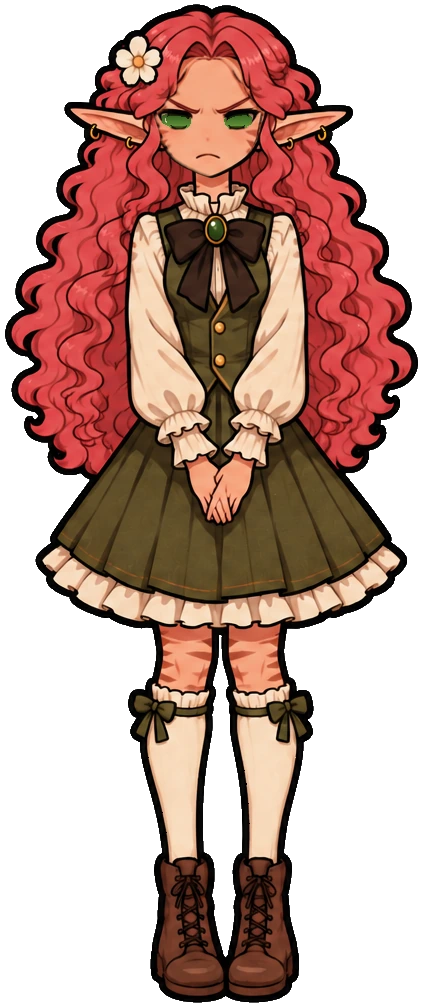
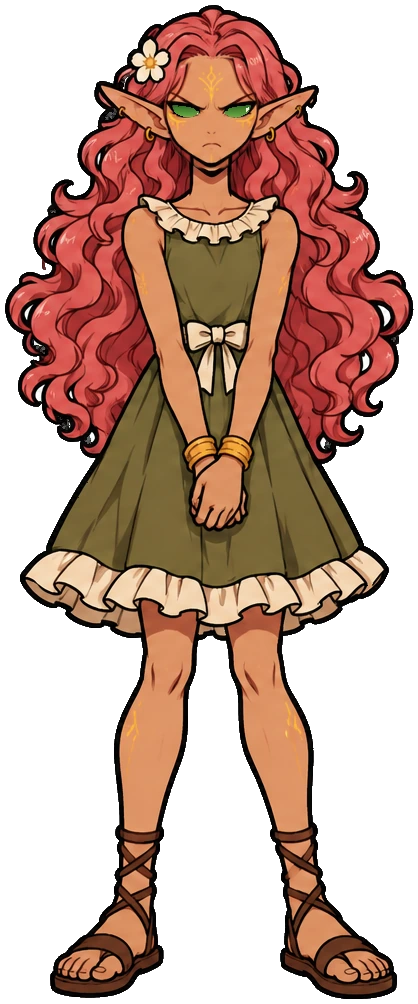
Momo refeita: marcas douradas da família Utagawa, olhos inteiros verdes (versao 3)
Claude-Session: https://claude.ai/code/session_01UAy89vbUTZugM6nZ8sJaNe

diff --git a/CLAUDE.md b/CLAUDE.md
@@ -128,6 +128,6 @@ Cada ator da aba Atriz (`palco-animacao.html`) pode ter sentimentos: a personage
 - Palco: o texto é dividido em frases; `[surpresa]` ou `(surpresa)` no começo vale até o fim da frase, depois volta ao normal; `Tamaki: …` no começo da linha faz só esse ator falar (`FALA.quem`). Sem tag, o sentimento sai das palavras (se `emoAuto`). Botões de sentimento no painel Animação do ator.
 - Novel: `personagem tamaki "Tamaki" #cor ator Tamaki` liga ao ator (pisca e mexe a boca enquanto a fala aparece ou a voz toca); `tamaki [surpresa] "fala"` ou `tamaki (surpresa) "fala"` vale só nessa fala e volta ao do `mostra`. Sem ator, `[surpresa]` usa a arte `tamaki surpresa`.
 - Sentimentos prontos no repositório: `atores/indice.json` = `[{nome, pasta, nota, arquivos}]`, imagens em `atores/<ator>/` (WebP, mesma tela das poses originais, nomes `Tamaki_<sentimento>[_fala|_fala2|_pisca|_fala_pisca].webp`). Atriz › 😮 Sentimentos › 📥 Sentimentos prontos pergunta qual pronto (o do ator aberto vem marcado), troca para o ator com esse nome ou cria o ator se ele não existe, e instala. Arquivos sem sentimento no nome (`Kaoro.webp`, `Kaoro_fala.webp`…) vão para as poses normais (aba Imagens). Além disso, a Central (`atoresProntos()` no index.html) cria sozinha, ao abrir, todo ator do índice que ainda não existe no aparelho (uma vez só por nome: `central-atores-prontos`; apagou, não volta) e recarrega o Palco Animação. Atores prontos do Capítulo 1 (2026-11-20, folhas geradas no GPT pelo Tama): Tora, Goro, Reika, Yoru, Kiyoshi, Midori, Gen, Yuzu, Tetsuo, Banji, Hiyori, Shun, Kenichi, Momo, Kaname, Kaede, Haru e "Tamaki criança" (arquivos `Tamaki*.webp` em `atores/tamaki-crianca/`), só poses normais, WebP q92; o campo `tamanho` do índice vira o `size` do ator (crianças menores). Kaoro: só as 5 poses normais (fundo tirado com isnet-anime; todas usam o corpo da Parada e só a cabeça muda, alinhada pelo rosto, para não tremer na troca). Tamaki: feliz, animada, surpresa, convencida, emburrada, pensativa (feitas de 6 desenhos do Tama; olhos fechados = traço do olho fechado da feliz; bocas trocadas entre os desenhos dela).
-- Atores no estilo novo (bíblia de personagens, doc claude.ai/artifact/UmTf5SAu5teoMsUEmK7AdF): o Tama gera no GPT uma "ficha de expressões" = corpo inteiro com ROSTO LISO à esquerda e, à direita, grade 5 linhas × 3 colunas só de cabeças (linhas: normal, feliz, bravo, triste, surpreso; colunas: boca fechada, falando, olhos fechados). O Claude recorta (isnet-anime), acha escala/posição de cada cabeça no corpo (matchTemplate), alinha pelo nariz e cola só a pele do rosto (máscara do rosto liso do corpo), assim o cabelo e o corpo são sempre os mesmos. Vira poses normais + sentimentos (`_fala2` e `_fala_pisca` = cópia do `_fala`; sem `_pisca` quando a coluna 3 veio de olho aberto). Kaoro (versao 4), Haru, Kaede, Tamaki criança, Kenichi, Momo, Kaname, Shun, Hiyori, Banji, Tetsuo, Yuzu, Gen, Yoru, Kiyoshi, Midori, Reika e Raika (versao 2), Tetsuo e Yuzu (versao 3) já estão assim. Midori: `verde2.py` pinta o olho inteiro (contorno convexo do branco+íris de cada olho, mantém só a linha escura de cima e um brilho; a semente fica dentro do contorno convexo do rosto (`mascara.png`), senão o cabelo grisalho conta como branco do olho). Galo/galinha (versao 3): o Tama pediu o corpo SEM rosto, SEM bico e SEM barbelas, com as penas pintadas de forma orgânica (nada de oval chapado), e o Tetsuo com expressões maduras (olhos estreitos, rugas); o bico fala abrindo a parte de baixo. Montagem: `/home/claude/scripts`-style `g3x.py` (encaixa a silhueta da cabeça na do corpo, escala x/y) ou matchTemplate pelo quepe (Tetsuo .885), `b5.py CORTE FUNDO TOPO` cola a cabeça inteira entre as linhas y e alinha pelo alto, `bpisca.py`, `exporta.py`. A Yuzu brava veio com um risco vermelho (cicatriz do Tetsuo) na testa: tirado pegando só o vermelho fino (abertura com disco de raio 8 separa da crista). Yoru: r5e da Hiyori com escala .72 pela altura do rosto (rosto liso do corpo ÷ rosto da cabeça); o matchTemplate pelo cabelo dava .835, grande demais. Gen (coruja, `g3.py`/`g5.py`): as cabeças da grade vieram mais achatadas que a do corpo, então a escala é separada em x e y (.92 × 1.02), achada encaixando a silhueta da cabeça na do corpo; cola a cabeça inteira (erodida 5 px) e alinha pelas penas do alto, e a coluna 3 pelos óculos. Yuzu: mesmo caminho do Tetsuo (escala 1.0, alinhada pela crista, faixa y 72–226); o fundo_branco furou o branco dos olhos do corpo, então o alfa do resultado = máximo(corpo, cabeça colada). Tetsuo (`t3.py`/`t5.py`/`tp.py`): corpo veio com rosto desenhado; escala pelo matchTemplate de olhos+bico (.745), todas as cabeças alinhadas pelo quepe, cola a cabeça erodida 6 px entre y 96 e 192 (abaixo da aba), e o bico do corpo é apagado antes (preenchido com a cor das penas) para não sobrar bico duplo quando a cabeça tem o bico mais alto. `fundo_branco.py`: na grade só fura buracos brancos ≥ 600 px (antes furava o branco do olho). Hiyori (óculos, franja reta): corpo sem óculos, óculos só nas cabeças; alinhar pela franja (TOPO), a máscara do corpo vira contorno convexo e a faixa dos olhos entra inteira (senão a sombra da franja corta um olho). No r5e, o contorno convexo do rosto da cabeça é ERODIDO 4 px (não dilatado), senão o queixo da cabeça aparece como uma segunda linha de queixo. Cabelo branco (Kaname): limpa_borda com `peel=1, maxman=20` para não comer mechas e pontas de orelha. Scripts de referência em `ferramentas/ficha_expressoes/` (r1 fundo, r2 corta cabeças e corpo, r3 escala/posição, r4 máscara do rosto, r5b alinha pelo nariz/boca, piscar; as coordenadas mudam por personagem). Quando o isnet-anime apaga cabeças da grade, usar `fundo_branco.py` (tira o branco ligado à borda e buracos brancos fechados; no corpo qualquer buraco branco). A escala da cabeça sai melhor pela largura do rosto (rosto liso do corpo ÷ rosto da cabeça) do que pelo matchTemplate quando o cabelo é cacheado (Kaede: .78, posição pelo topo do rosto). `r5e.py` (Tamaki criança): cola só dentro do contorno convexo da pele do rosto da própria cabeça, assim o queixo da cabeça nunca aparece dentro do rosto do corpo; coluna 3 alinhada pelo nariz, e se falhar usa o ajuste da coluna 1. Kenichi (galo, `k3.py`/`k5.py`): o GPT desenhou o rosto no corpo (não veio liso), então a escala sai do matchTemplate de sobrancelhas+olhos+bico (1.28), cola o contorno convexo do rosto de penas do corpo e da cabeça, só longe da borda da cabeça (erosão de 7 px, para não trazer o contorno do pescoço), e alinha todas pela crista (o bico aberto desce e engana o alinhamento pelo bico). Piscar com os olhos fechados da própria linha (todas as colunas 3 vieram fechadas); no surpreso, pele lisa + só o traço do olho fechado, mantendo as sobrancelhas. Elfos puros (e filhos de elfo puro, como Momo e Aoi): corpo alongado (pescoço, braços, pernas e dedos compridos), orelhas muito compridas quase na horizontal, listras de tigre num tom mais escuro que a pele (testa, têmporas, embaixo dos olhos, pescoço, mãos, canelas), quase sem sobrancelha, rosto comprido e queixo fino, e o OLHO INTEIRO DE UMA COR SÓ (sem branco, sem íris/pupila; a cor varia por personagem); as cores de pele e cabelo seguem a ficha de cada um, puxando para tons claros. Referência: imagem do Tama de 2026-11-21 (corpo de ~9 cabeças, pescoço do tamanho da cabeça, braços até o meio da coxa, pernas mais da metade da altura, canelas finas e longas, mãos grandes). Raika: versão musculosa de cabelo chanel (escolha do Tama); na ficha a coluna 3 da linha feliz veio trocada (rosto bravo), então o piscar da feliz usa a própria feliz (olhos já fechados). Família Utagawa (Midori, Reika, Raika, Momo, Aoi; o Kiyoshi não, é elfo comum): marcas TRIBAIS DOURADAS (padrão da família, pedido do Tama em 2026-11-22) no lugar das listras de tigre; roupas que mostram braços, pescoço e canelas para a anatomia aparecer. Num prompt de criança, não descrever partes do corpo (o filtro do GPT trava); falar em 'silhueta alongada de criatura de fantasia'. O GPT insiste em pôr branco nos olhos: `ferramentas/ficha_expressoes/verde.py` pinta o olho inteiro de verde (contorno convexo da íris + branco vizinho, mantém a linha de cima e um brilho). Ficha de expressões só com texto (o GPT do Tama tem limite de imagens): o prompt precisa descrever o rosto do jeito da ficha aprovada (cabelo, formato do rosto, olhos, barba), não só a bíblia. Limpeza da borda (rebarbas brancas do fundo): `ferramentas/limpa_borda.py` (tira pedacinhos soltos, manchinhas claras dentro do contorno perto da borda, halo branco e pixels claros semitransparentes). Só serve para o estilo novo (contorno preto grosso); nos atores antigos de traço fino ele come cabelo branco e penas brancas, então neles a limpeza fica para quando forem refeitos no estilo novo. Piscar: só os olhos trocam — elipses nos olhos (centros x 188 e 246, y 142 no recorte do corpo) recebem os olhos fechados da linha normal (a feliz usa os dela), em `_pisca` e `_fala_pisca` de todos os sentimentos; assim a boca e as sobrancelhas não mudam quando ele pisca.
+- Atores no estilo novo (bíblia de personagens, doc claude.ai/artifact/UmTf5SAu5teoMsUEmK7AdF): o Tama gera no GPT uma "ficha de expressões" = corpo inteiro com ROSTO LISO à esquerda e, à direita, grade 5 linhas × 3 colunas só de cabeças (linhas: normal, feliz, bravo, triste, surpreso; colunas: boca fechada, falando, olhos fechados). O Claude recorta (isnet-anime), acha escala/posição de cada cabeça no corpo (matchTemplate), alinha pelo nariz e cola só a pele do rosto (máscara do rosto liso do corpo), assim o cabelo e o corpo são sempre os mesmos. Vira poses normais + sentimentos (`_fala2` e `_fala_pisca` = cópia do `_fala`; sem `_pisca` quando a coluna 3 veio de olho aberto). Kaoro (versao 4), Haru, Kaede, Tamaki criança, Kenichi, Momo, Kaname, Shun, Hiyori, Banji, Tetsuo, Yuzu, Gen, Yoru, Kiyoshi, Midori, Reika e Raika (versao 2), Tetsuo, Yuzu e Momo (versao 3) já estão assim. Midori: `verde2.py` pinta o olho inteiro (contorno convexo do branco+íris de cada olho, mantém só a linha escura de cima e um brilho; a semente fica dentro do contorno convexo do rosto (`mascara.png`), senão o cabelo grisalho conta como branco do olho). Galo/galinha (versao 3): o Tama pediu o corpo SEM rosto, SEM bico e SEM barbelas, com as penas pintadas de forma orgânica (nada de oval chapado), e o Tetsuo com expressões maduras (olhos estreitos, rugas); o bico fala abrindo a parte de baixo. Montagem: `/home/claude/scripts`-style `g3x.py` (encaixa a silhueta da cabeça na do corpo, escala x/y) ou matchTemplate pelo quepe (Tetsuo .885), `b5.py CORTE FUNDO TOPO` cola a cabeça inteira entre as linhas y e alinha pelo alto, `bpisca.py`, `exporta.py`. A Yuzu brava veio com um risco vermelho (cicatriz do Tetsuo) na testa: tirado pegando só o vermelho fino (abertura com disco de raio 8 separa da crista). Yoru: r5e da Hiyori com escala .72 pela altura do rosto (rosto liso do corpo ÷ rosto da cabeça); o matchTemplate pelo cabelo dava .835, grande demais. Gen (coruja, `g3.py`/`g5.py`): as cabeças da grade vieram mais achatadas que a do corpo, então a escala é separada em x e y (.92 × 1.02), achada encaixando a silhueta da cabeça na do corpo; cola a cabeça inteira (erodida 5 px) e alinha pelas penas do alto, e a coluna 3 pelos óculos. Yuzu: mesmo caminho do Tetsuo (escala 1.0, alinhada pela crista, faixa y 72–226); o fundo_branco furou o branco dos olhos do corpo, então o alfa do resultado = máximo(corpo, cabeça colada). Tetsuo (`t3.py`/`t5.py`/`tp.py`): corpo veio com rosto desenhado; escala pelo matchTemplate de olhos+bico (.745), todas as cabeças alinhadas pelo quepe, cola a cabeça erodida 6 px entre y 96 e 192 (abaixo da aba), e o bico do corpo é apagado antes (preenchido com a cor das penas) para não sobrar bico duplo quando a cabeça tem o bico mais alto. `fundo_branco.py`: na grade só fura buracos brancos ≥ 600 px (antes furava o branco do olho). Hiyori (óculos, franja reta): corpo sem óculos, óculos só nas cabeças; alinhar pela franja (TOPO), a máscara do corpo vira contorno convexo e a faixa dos olhos entra inteira (senão a sombra da franja corta um olho). No r5e, o contorno convexo do rosto da cabeça é ERODIDO 4 px (não dilatado), senão o queixo da cabeça aparece como uma segunda linha de queixo. Cabelo branco (Kaname): limpa_borda com `peel=1, maxman=20` para não comer mechas e pontas de orelha. Scripts de referência em `ferramentas/ficha_expressoes/` (r1 fundo, r2 corta cabeças e corpo, r3 escala/posição, r4 máscara do rosto, r5b alinha pelo nariz/boca, piscar; as coordenadas mudam por personagem). Quando o isnet-anime apaga cabeças da grade, usar `fundo_branco.py` (tira o branco ligado à borda e buracos brancos fechados; no corpo qualquer buraco branco). A escala da cabeça sai melhor pela largura do rosto (rosto liso do corpo ÷ rosto da cabeça) do que pelo matchTemplate quando o cabelo é cacheado (Kaede: .78, posição pelo topo do rosto). `r5e.py` (Tamaki criança): cola só dentro do contorno convexo da pele do rosto da própria cabeça, assim o queixo da cabeça nunca aparece dentro do rosto do corpo; coluna 3 alinhada pelo nariz, e se falhar usa o ajuste da coluna 1. Kenichi (galo, `k3.py`/`k5.py`): o GPT desenhou o rosto no corpo (não veio liso), então a escala sai do matchTemplate de sobrancelhas+olhos+bico (1.28), cola o contorno convexo do rosto de penas do corpo e da cabeça, só longe da borda da cabeça (erosão de 7 px, para não trazer o contorno do pescoço), e alinha todas pela crista (o bico aberto desce e engana o alinhamento pelo bico). Piscar com os olhos fechados da própria linha (todas as colunas 3 vieram fechadas); no surpreso, pele lisa + só o traço do olho fechado, mantendo as sobrancelhas. Elfos puros (e filhos de elfo puro, como Momo e Aoi): corpo alongado (pescoço, braços, pernas e dedos compridos), orelhas muito compridas quase na horizontal, listras de tigre num tom mais escuro que a pele (testa, têmporas, embaixo dos olhos, pescoço, mãos, canelas), quase sem sobrancelha, rosto comprido e queixo fino, e o OLHO INTEIRO DE UMA COR SÓ (sem branco, sem íris/pupila; a cor varia por personagem); as cores de pele e cabelo seguem a ficha de cada um, puxando para tons claros. Referência: imagem do Tama de 2026-11-21 (corpo de ~9 cabeças, pescoço do tamanho da cabeça, braços até o meio da coxa, pernas mais da metade da altura, canelas finas e longas, mãos grandes). Raika: versão musculosa de cabelo chanel (escolha do Tama); na ficha a coluna 3 da linha feliz veio trocada (rosto bravo), então o piscar da feliz usa a própria feliz (olhos já fechados). O GPT costuma embaralhar a grade nas linhas feliz/bravo (Momo v3: bravo aberto veio na linha 2 coluna 3; remapeado), conferir cada célula antes de montar; e não rodar o verde2 em linhas de olhos fechados (pinta os dentes). Família Utagawa (Midori, Reika, Raika, Momo, Aoi; o Kiyoshi não, é elfo comum): marcas TRIBAIS DOURADAS (padrão da família, pedido do Tama em 2026-11-22) no lugar das listras de tigre; roupas que mostram braços, pescoço e canelas para a anatomia aparecer. Num prompt de criança, não descrever partes do corpo (o filtro do GPT trava); falar em 'silhueta alongada de criatura de fantasia'. O GPT insiste em pôr branco nos olhos: `ferramentas/ficha_expressoes/verde.py` pinta o olho inteiro de verde (contorno convexo da íris + branco vizinho, mantém a linha de cima e um brilho). Ficha de expressões só com texto (o GPT do Tama tem limite de imagens): o prompt precisa descrever o rosto do jeito da ficha aprovada (cabelo, formato do rosto, olhos, barba), não só a bíblia. Limpeza da borda (rebarbas brancas do fundo): `ferramentas/limpa_borda.py` (tira pedacinhos soltos, manchinhas claras dentro do contorno perto da borda, halo branco e pixels claros semitransparentes). Só serve para o estilo novo (contorno preto grosso); nos atores antigos de traço fino ele come cabelo branco e penas brancas, então neles a limpeza fica para quando forem refeitos no estilo novo. Piscar: só os olhos trocam — elipses nos olhos (centros x 188 e 246, y 142 no recorte do corpo) recebem os olhos fechados da linha normal (a feliz usa os dela), em `_pisca` e `_fala_pisca` de todos os sentimentos; assim a boca e as sobrancelhas não mudam quando ele pisca.
 - Atualizar um ator que já existe no aparelho: suba `versao` no item do índice. `atoresProntos()` guarda as versões em `central-atores-versao`; versão maior apaga as poses normais e as dos sentimentos do pacote e grava as novas no mesmo ator (mantém sentimentos que ele já tinha). `palavras` no item do índice = palavras de cada sentimento; `tamanho` só entra se o ator ainda não tem size.
 - Novel › 🎭 Atores (no menu e na barra do Roteiro): lista cada `personagem` com a foto, se está ligado (✅ / ⚠ ator não existe / sem ator), os sentimentos prontos e os que o roteiro pede sem pose (!). A lista de atores reescreve a linha `personagem … ator X`; os atores soltos têm ＋ Criar personagem.
